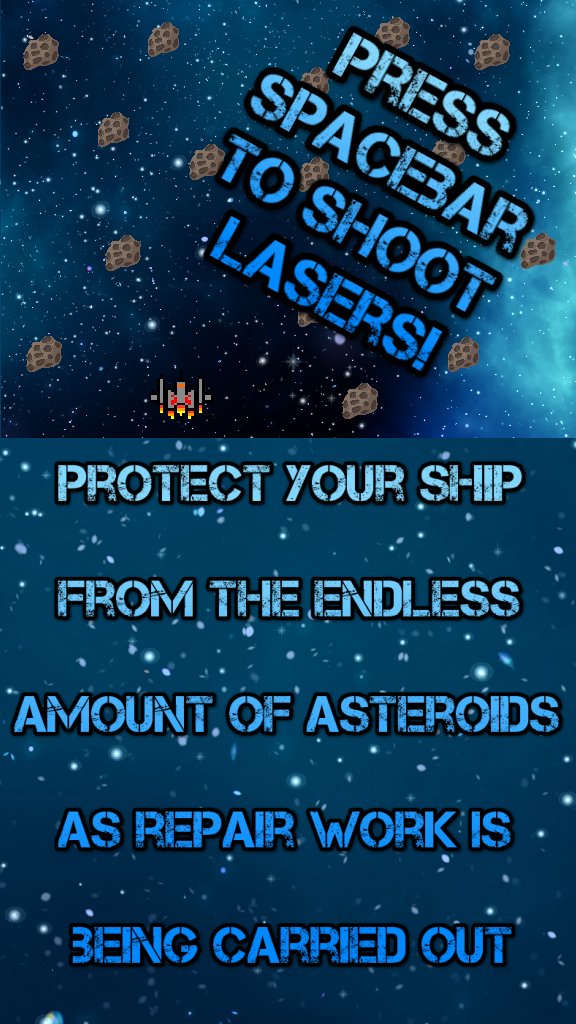
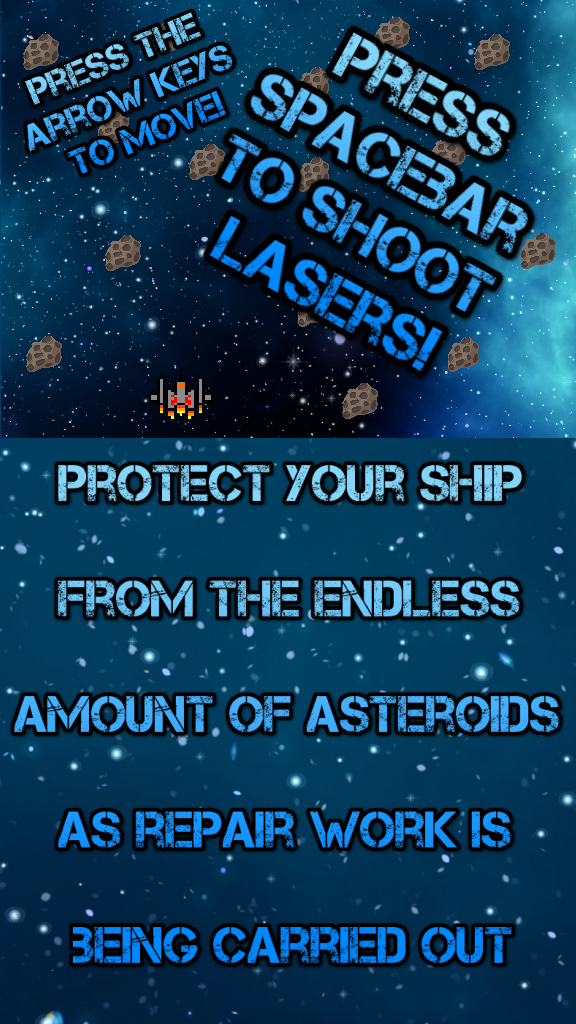
added game start screen

Changed region(s): [[0.0312, 0.0, 0.4062, 0.1875]]

diff --git a/main.py b/main.py
@@ -105,17 +105,29 @@ def instructions_screen_2():  # Displays instructions to game screen
 
 
 def instructions_screen_3():  # Displays instructions to game screen
-    global running
     instruction_state = True
     while instruction_state:
         DUMMY_WINDOW.fill(WHITE)
         for events in pygame.event.get():
             if events.type == pygame.KEYDOWN:
                 instruction_state = False
-                running = True
             if events.type == pygame.QUIT:
                 game_quit()
         DUMMY_WINDOW.blit(INTRO_3, (0, 0))
+        scale_window()
+
+
+def start_screen():
+    global running
+    while not running:
+        DUMMY_WINDOW.fill(WHITE)
+        for events in pygame.event.get():
+            if events.type == pygame.KEYDOWN:
+                running = True
+            if events.type == pygame.QUIT:
+                game_quit()
+        draw_stuff(red, red_bullets, red_score, damaged_ship_health)
+        DUMMY_WINDOW.blit(SPACEBAR_INSTRUCTIONS, SPACEBAR_INSTRUCTIONS_RECT)
         scale_window()
 
 
@@ -191,7 +203,7 @@ def you_win():  # Displays the victory screen
         DUMMY_WINDOW.blit(BACKGROUND_SURFACE, (0, 0))
         DUMMY_WINDOW.blit(LOGO, (60, 25))
         DUMMY_WINDOW.blit(YOU_WIN_SURFACE, (6, 392))
-        DUMMY_WINDOW.blit(SPACEBAR_INSTRUCTIONS, (6, 712))
+        DUMMY_WINDOW.blit(SPACEBAR_AGAIN_INSTRUCTIONS, (6, 712))
 
 
 def scale_window():  # Scales the game window and assets to fit the user's monitor dimensions
@@ -201,12 +213,12 @@ def scale_window():  # Scales the game window and assets to fit the user's monit
 
 
 def game_over():  # Displays the game over screen
-    global game_active, red, high_score
+    global red, high_score
     if not game_active:
         DUMMY_WINDOW.blit(BACKGROUND_SURFACE, (0, 0))
         DUMMY_WINDOW.blit(LOGO, (60, 25))
         DUMMY_WINDOW.blit(YOU_LOSE_SURFACE, (6, 292))
-        DUMMY_WINDOW.blit(SPACEBAR_INSTRUCTIONS, (6, 712))
+        DUMMY_WINDOW.blit(SPACEBAR_AGAIN_INSTRUCTIONS, (6, 712))
 
         high_score = update_score(red_score, high_score)
         score_display()
@@ -252,12 +264,11 @@ def main():  # The main game loop that handles the majority of the game logic
             if events.type == pygame.QUIT:
                 game_quit()
 
-            if events.type == pygame.KEYDOWN and events.key == pygame.K_SPACE and len(red_bullets) < MAX_BULLETS \
-                    and game_active:
+            if events.type == pygame.KEYDOWN and events.key == pygame.K_SPACE and len(red_bullets) < MAX_BULLETS:
                 bullet = pygame.Rect(red.x + red.width // 2, red.y, 5, 10)
                 red_bullets.append(bullet)
 
-            if events.type == SPAWN_ASTEROID and game_active:
+            if events.type == SPAWN_ASTEROID:
                 asteroids_list.append(create_asteroid())
                 print(asteroids_list)
 
@@ -265,10 +276,10 @@ def main():  # The main game loop that handles the majority of the game logic
                 for asteroid in asteroids_list:
                     asteroids_list.remove(asteroid)
 
-            if events.type == INCREASE_SHIP_HEALTH and game_active:
+            if events.type == INCREASE_SHIP_HEALTH:
                 damaged_ship_health += 1
 
-            if events.type == ASTEROID_SPAWN_RATE_PLUS and game_active:
+            if events.type == ASTEROID_SPAWN_RATE_PLUS:
                 asteroid_spawn_rate //= 2
                 spawn_asteroid(asteroid_spawn_rate)
 
@@ -376,12 +387,14 @@ GAME_MUSIC.play(-1)
 LOGO = pygame.image.load("assets/logo.png")
 YOU_WIN_SURFACE = pygame.image.load("assets/you_win.png")
 YOU_LOSE_SURFACE = pygame.image.load("assets/game_over.png")
-SPACEBAR_INSTRUCTIONS = pygame.image.load("assets/press_spacebar.png")
+SPACEBAR_AGAIN_INSTRUCTIONS = pygame.image.load("assets/press_spacebar.png")
 
 # Instruction Files
 INTRO_1 = pygame.image.load("assets/intro_1.png")
 INTRO_2 = pygame.image.load("assets/intro_2.png")
 INTRO_3 = pygame.image.load("assets/intro_3.png")
+SPACEBAR_INSTRUCTIONS = pygame.image.load("assets/spacebar_instructions.png")
+SPACEBAR_INSTRUCTIONS_RECT = SPACEBAR_INSTRUCTIONS.get_rect(center=(288, 560))
 
 ICON = pygame.image.load("assets/icon.png")
 pygame.display.set_icon(ICON)
@@ -392,6 +405,8 @@ instructions_screen_1()
 instructions_screen_2()
 
 instructions_screen_3()
+
+start_screen()
 
 main()
 
